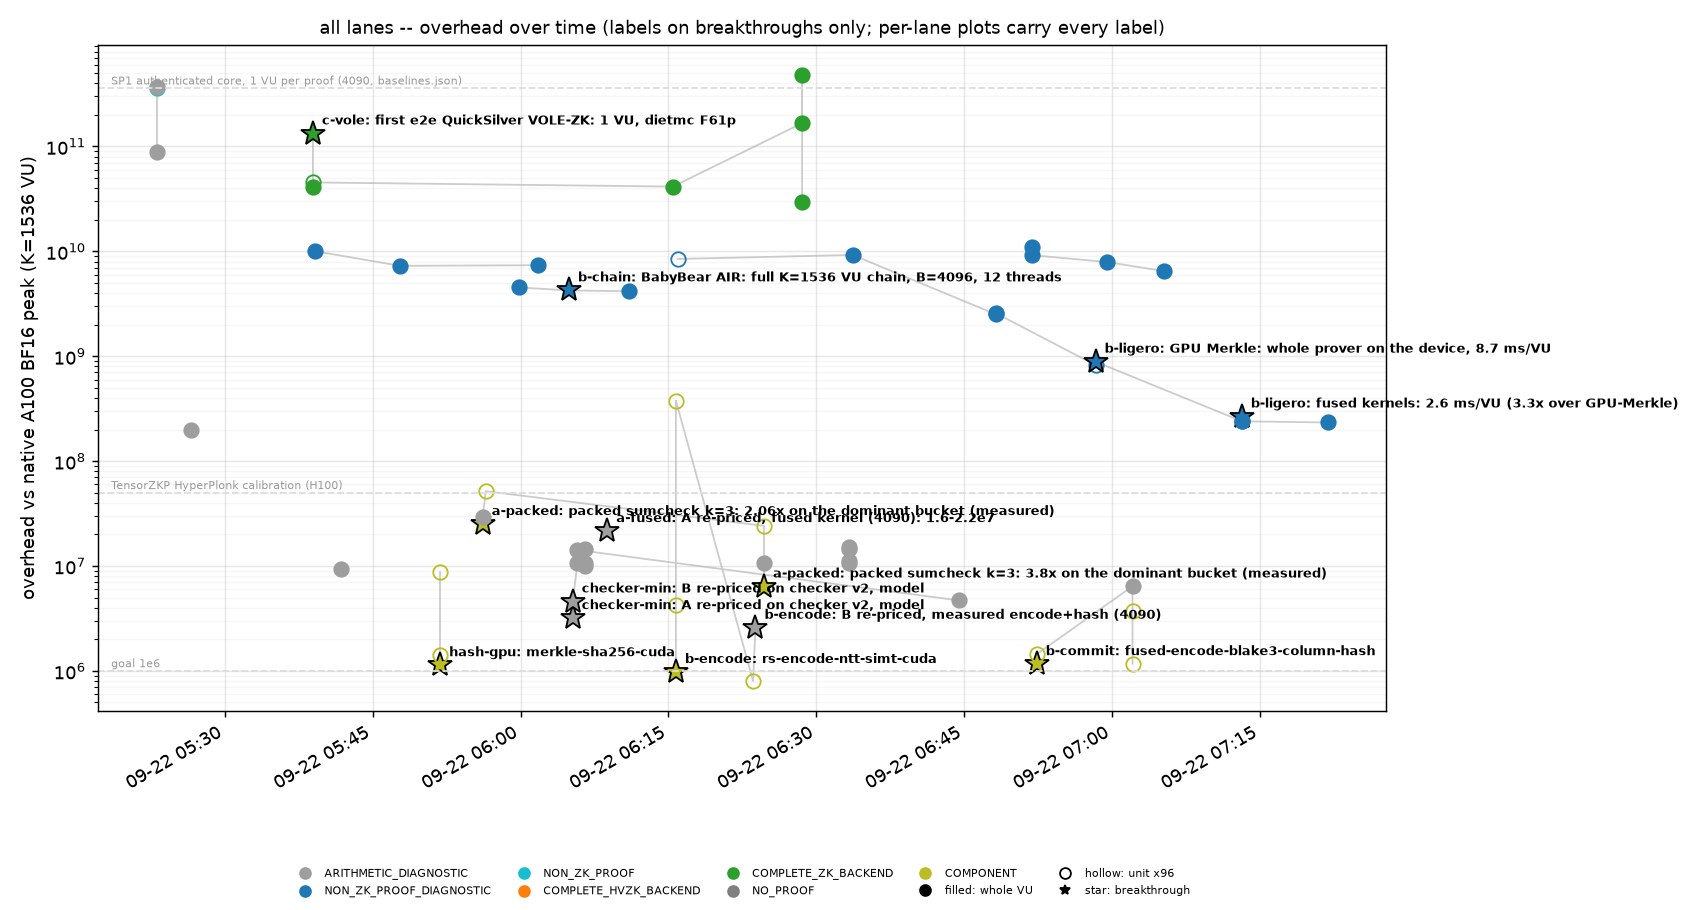
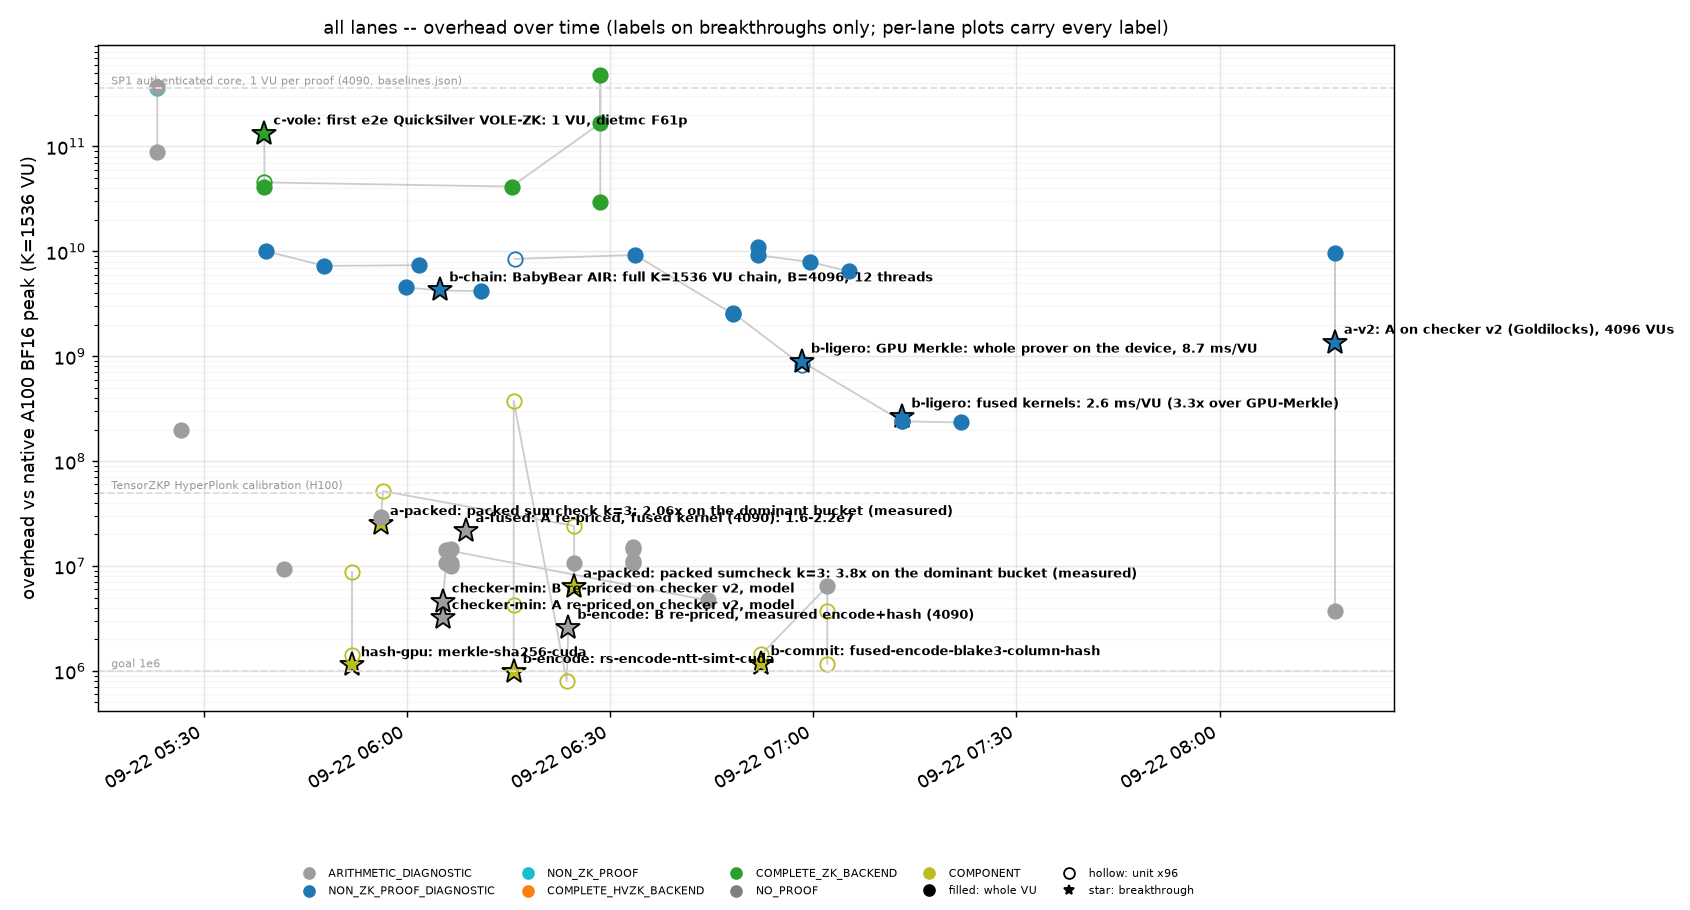
a-v2: checker v2 measured on A — 54.2 s vs 261.3 s for 4096 VUs (4.8x); README table, ledger (vu + GPU re-price), plots

diff --git a/backends/gkr/README.md b/backends/gkr/README.md
@@ -196,3 +196,70 @@ accepted). Positives: 64/64 and 4096/4096 `vu-k1536` accepted with the recorded 
 **Transcript vectors for lane a-gpu:** `fixtures/babybear-transcripts/` (`transcript_vu4.json`, `transcript_vu64.json`,
 run r20260922-070527-a263; `README.md` there gives the byte-exact conventions: 4-byte LE base elements, `c_0`-first
 degree-6 coordinates, SHA-256 state chaining, the squeeze counter, the preamble, the message order, Merkle layout).
+
+## Checker v2 (vy-cpu2, 12 threads, PCS mode, `--variant v2`; lane a-v2, 2026-09-22)
+
+The same prover on the checker-min lane's lookup-centred arithmetisation of the SAME relation
+(`backends/numerical/reports/checker_min.md`, `verity_numerical.checker.v2`): one `T_OP` lookup per BF16 word,
+`ALIGN4` + `SHIFT` tables instead of the (q, r) division hints, `LEAD` / `LEADNORM` / `TNORM` instead of the leading-bit
+/ normalise / state-out chain; the VU chains the *state* (s, e, M, z) and the group saturation flags between units and
+packs once, in the epilogue. Exporter `gkr_export/v2.py` (`--variant v2` on `gkr_export.vu`); per unit **264 columns /
+290 wires / 26 products / 86 lookups into 10 tables, multiplicative depth 1** (v1: 468 / 826 / 358 / 374 into 9, depth
+4). The 5.14M fixed table rows are *implicit* (`itable` lines; `circuit.rs::materialise`, dense index) — only their
+multiplicities are committed, per proof. Chain: 8 links, **583 linkage constraints per VU** (v1: 98), including
+`ovf = 0` on every non-final unit. `PROTOCOL.md` §14. Security **2^-127.71** at B = 64 and 4096
+(`account_candidate_a` on the exported shape; the `SHIFT` / `T_OP` logUp identities are the worst lookup terms at
+2^-169 / 2^-166 — the budget is still the commitment hash and the Ligero query test).
+
+~~~sh
+cargo test --release                                                       # 14 tests incl. the v2 fixtures / itable materialisation
+uv run --package verity-numerical python -m verity_numerical.gkr_export.v2 negatives --out DIR   # 30 unit + 4 VU mutations
+VARIANT=v2 GATE=1      bash backends/gkr/run_measure_vu.sh                 # cargo test; generated v2 unit + VU negatives
+VARIANT=v2             bash backends/gkr/run_measure_vu.sh 4096            # export (--variant v2) + prove + verify
+VARIANT=v2 NEGATIVES=1 bash backends/gkr/run_measure_vu.sh                 # vu-k1536-neg
+~~~
+
+**v1 vs v2, Goldilocks^3, same box (shared with the latency and b-lookup lanes, load ≈ 35–48 on 32 vCPU during every
+run), 12 threads, all recorded words accepted** (v1 rows: the a-babybear lane's post-R<w>-fix control, commit 54e5da7;
+v2: commits d30efa3 / bf81577, the same `gkr.rs` / `logup.rs` / `ligero.rs`):
+
+| B | checker | run id | prove_s (commit / lookup / arith / open) | verify_s | proof bytes | rounds | depth | peak RSS | committed | s / VU | v2 / v1 |
+|---|---|---|---|---|---|---|---|---|---|---|---|
+| 64 | v1 | r20260922-064620-cf4c | 5.79 (0.22 / 1.89 / 3.22 / 0.43) | 0.49 | 1,638,920 | 1974 | 234 | 587 MB | 2,959,871 | 0.0905 | — |
+| 64 | v1 (re-run, d30efa3) | r20260922-075822-5076 | 5.39 (0.17 / 1.67 / 3.12 / 0.40) | 0.43 | 1,638,920 | 1974 | 234 | — | 2,959,871 | 0.0843 | — |
+| 64 | **v2** | r20260922-080202-8e4d | **6.13** (0.57 / 3.94 / **0.31** / 1.29) | 1.35 | 3,087,392 | 2199 | 279 | 798 MB | 6,770,360 | 0.0958 | prove 1.06×, arith 0.10×, lookup 2.1×, committed 2.3× |
+| 4096 | v1 | r20260922-065844-2b84 | 261.3 (9.1 / 63.8 / 160.1 / 26.1) | 26.1 | 69,693,032 | 3179 | 381 | 33.8 GB | 184,145,855 | 0.0638 | — |
+| 4096 | v2 (overlapping the `vu-k1536-neg` run) | r20260922-080548-b67d | 57.0 (5.8 / 21.4 / 15.3 / 13.6) | 11.9 | 41,510,240 | 3063 | 328 | 13.4 GB | 109,021,880 | 0.0139 | prove 0.218× |
+| 4096 | **v2 (headline)** | **r20260922-081106-6067** | **54.2** (5.6 / 20.2 / **15.6** / 11.9) | **12.2** | **41,510,240** | 3063 | **328** | **13.3 GB** | **109,021,880** | **0.0132** | **prove 0.207× (4.8×), verify 0.47×, bytes 0.60×, RSS 0.39×, committed 0.59×, depth 328 vs 381** |
+
+(peak RSS from the harness's process sampler, `resources.jsonl`, 5-s samples.) `overhead.vs_native_peak` 1.34e9
+(v1 6.48e9). Measured split ratios v2 / v1 at B = 4096: arith **0.098**, lookup **0.317**, commit + open **0.50**,
+committed elements 0.59 — the arithmetic bucket collapsed by the modelled ~10× (26 products of depth 1 against 358 of
+depth 4) and the lookup bucket by 3× despite 5.1M table leaves; the proof is now **37 % lookup, 29 % arith, 32 %
+commit + open**. Verify 12.2 s is dominated by the table-side evaluation of the implicit tables (5.14M rows) and the
+Ligero column re-encoding.
+
+**Correctness gate** (all on vy-cpu2, binary of d30efa3): `cargo test --release` 14/14 (r20260922-075226-1f2e); the
+generated v2 transition-unit negatives **30/30 rejected** (every hint, lookup-output and outgoing-state column of a unit
+mutated by +1; 13 caught at the phase-2a assertion sumcheck, 17 at the affected table's logUp identity) and the
+4 synthetic VU negatives **4/4 rejected** (`broken_chain`, `false_overflow_flag`, `public_wrong_word`,
+`saturated_intermediate` — all at the linkage functional); `vu-k1536-neg` **52/52 rejected, 0 wrongly accepted**
+(r20260922-080600-a365: 8 at witness generation — the non-finite / saturated operands are outside `T_OP`'s domain —
+and 44 by the verifier at the phase-2a assertion sumcheck). The Z-level wrap cases of the batteries are what the
+`+1` mutations and the `broken_chain` / `public_wrong_word` cases exercise on Goldilocks; the BabyBear-specific
+limb cases do not apply (no BabyBear v2 instantiation: `state_decode` / `epilogue` need the verified limb split first).
+
+**Table-commitment decision and small B.** The tables are implicit but their *multiplicities* are committed and their
+rows are leaves of the fractional-sum trees, so every proof pays 5.14M elements + 5.14M leaves regardless of B. At
+B = 64 that is 76 % of the committed elements and the reason v2 is *not* faster there (6.13 vs 5.79 s: lookup 3.9 vs
+1.9 s, open 1.3 vs 0.4 s, while arith fell 3.2 → 0.3 s). Fitting prove_s = a + b·B to the two points: v2 ≈ 5.4 s +
+0.0119 s/VU, v1 ≈ 1.7 s + 0.0634 s/VU, so **v2 wins from B ≈ 72** and is 4.8× at 4096; the fixed cost is < 10 % of the
+proof from B ≈ 4000. The split-u `SHIFT` fallback (2 × 2^8·54 rows instead of 2^16·54) would cut the fixed cost by
+~3.4M rows and matter only below B ≈ 300; it is not built.
+
+**GPU re-price** (`explore.tensor`, `VERITY_CHECKER_VARIANT=v2`, `ARITHMETIC_DIAGNOSTIC`): scaling the v1 model's
+arith / lookup / commit buckets by the measured CPU ratios (0.098 / 0.317 / 0.50) gives H100 at utilisation 0.172:
+v1 model 0.505 s per 4096 batch (overhead 1.25e7) → v2 model 0.221 s (5.47e6) → **v2 re-priced 0.150 s (3.72e6)**,
+with the commitment (encode + hash, 0.105 s) now 70 % of the GPU time; BabyBear^6 re-priced 0.103 s (2.54e6). The model's
+own v2 row is conservative on the arith bucket (it prices the census's 33 products at depth 3; the export has 26 at
+depth 1).
